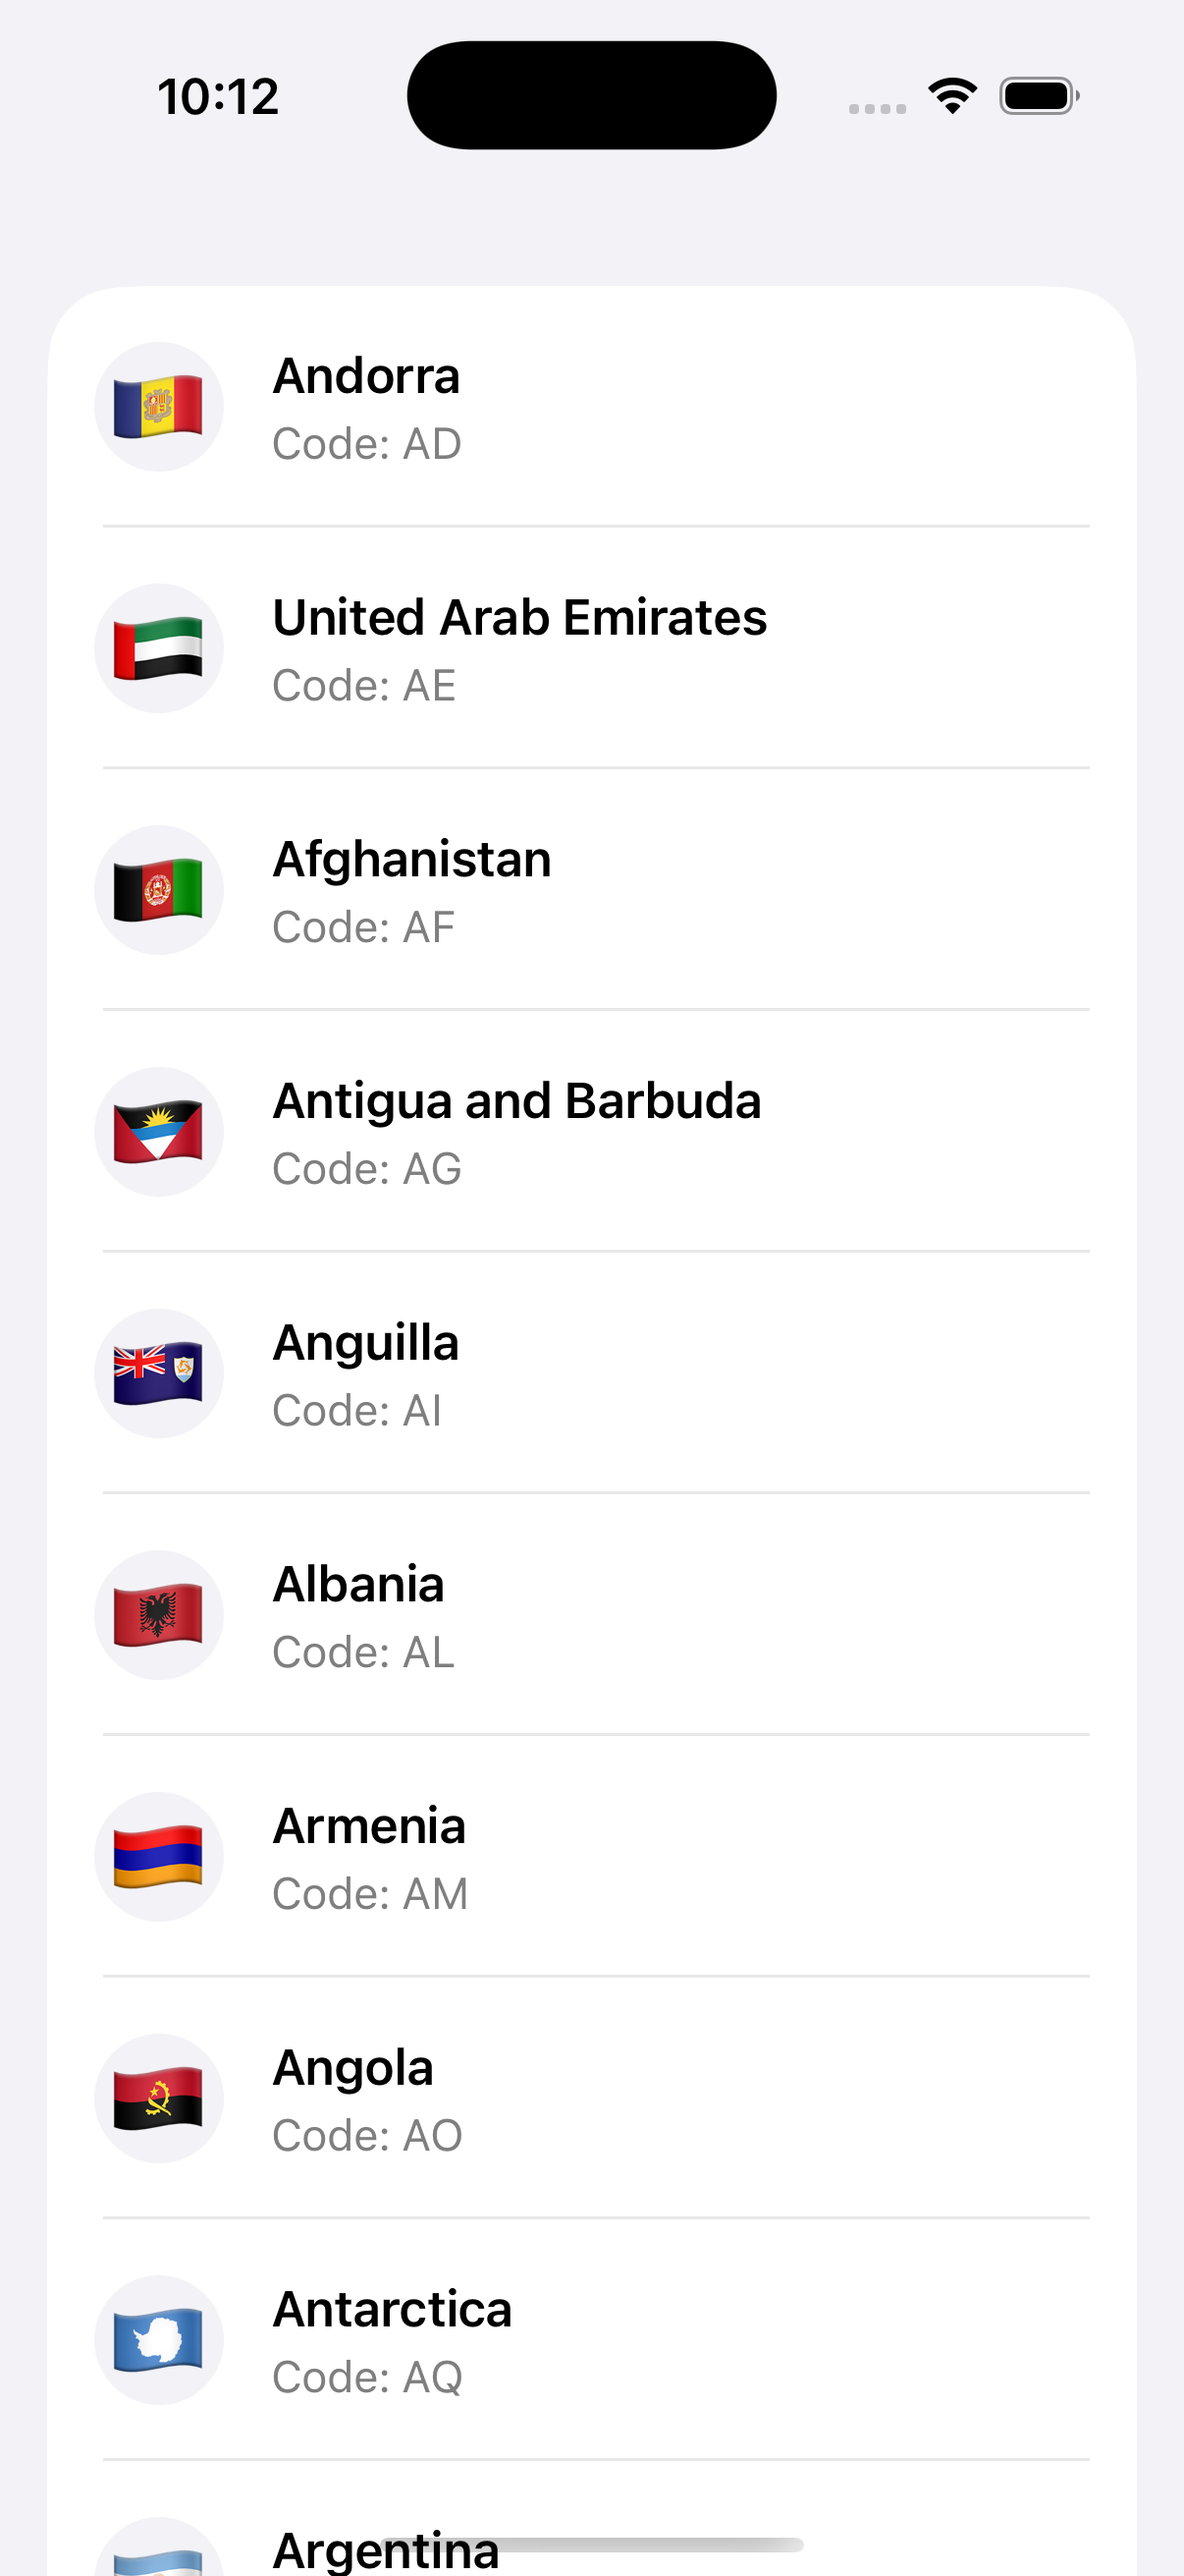
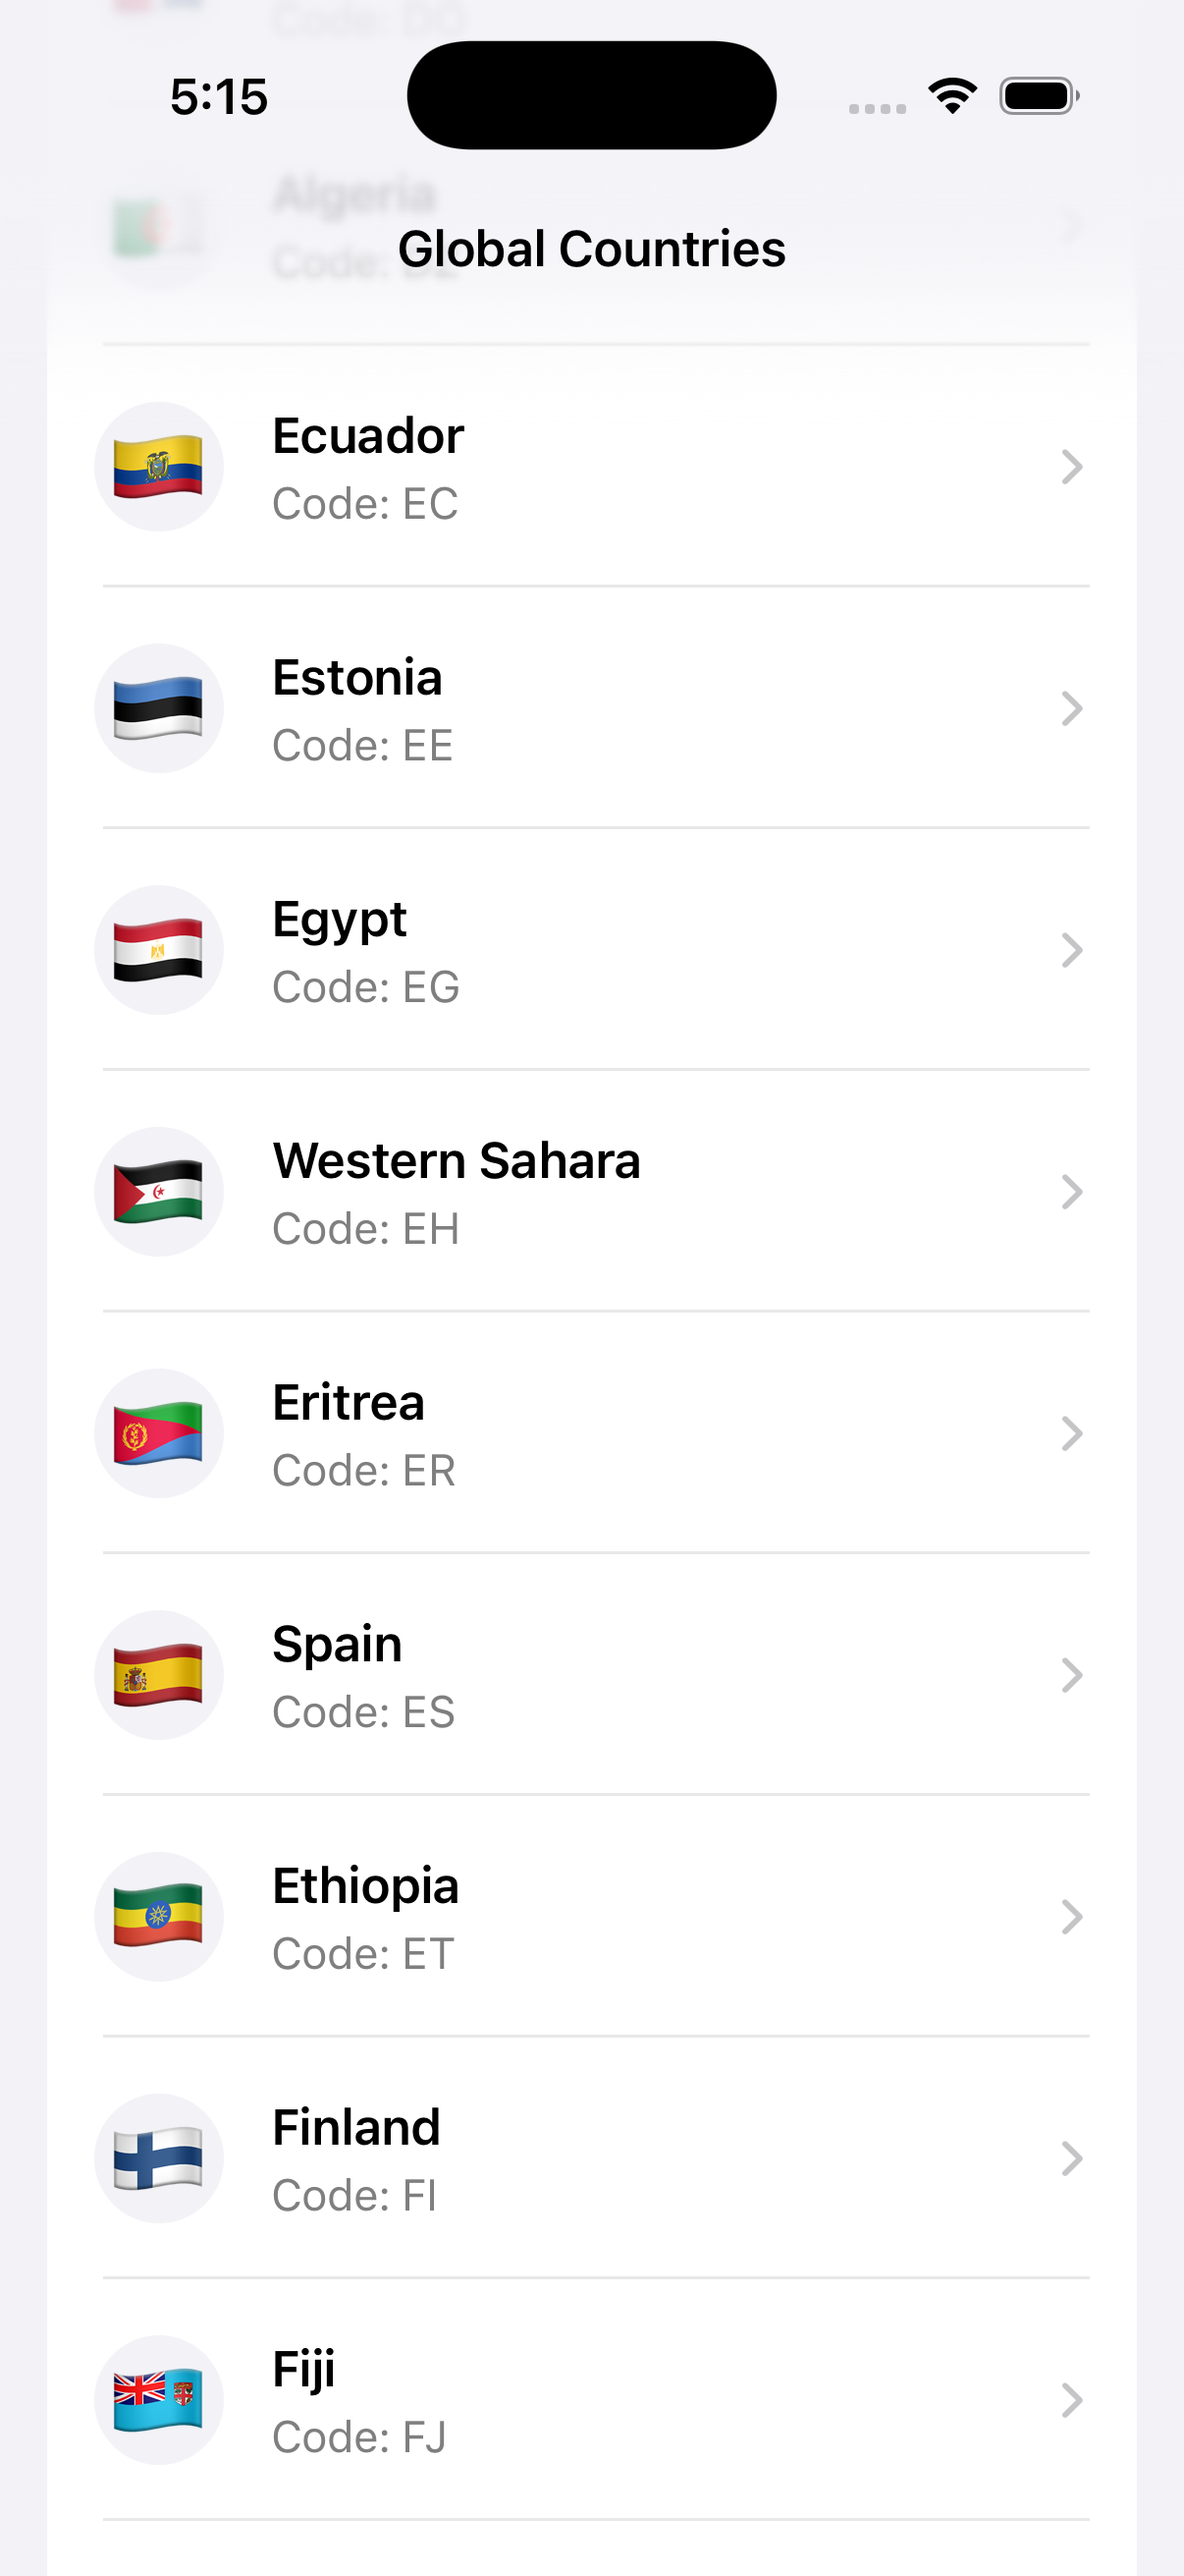
Updated images
Added country details

diff --git a/README.md b/README.md
@@ -2,6 +2,8 @@
 
 <img src="images/countries-list.png" alt="Countries List" width="500">
 
+<img src="images/country-details.png" alt="Country Details" width="500">
+
 ## GraphQL
 
 ### Install Apollo iOS CLI
